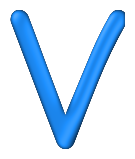
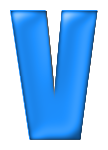
.

diff --git a/src/main/webapp/js/core.js b/src/main/webapp/js/core.js
@@ -17,7 +17,7 @@
 
     var mouseWidth = 200;
     var mouseHeight = 200;
-    var alphabetWidth = 150;
+    var alphabetWidth = 100;
     var alphabetHeight = 200;
 
     var width = 0;
@@ -84,7 +84,7 @@
                         opacity: 1
                     });
 
-                    jQuery("#mp3_" + item.html())[0].play();
+                    jQuery("#mp3_" + item.attr('letter'))[0].play();
 
                 } else {
                     item.css({
@@ -119,11 +119,16 @@
         alphabetArray = word.split('');
 
         for (var i = 0; i < alphabetArray.length; i++) {
+            var image = jQuery('<img>')
+                .attr('src', './images/' + alphabetArray[i] + '.png');
+
             var alphabet = jQuery('<div/>')
-                .html(alphabetArray[i])
+                //.html(alphabetArray[i])
+                .append(image)
                 .attr('class', 'alphabet')
                 .attr('status', 'none')
                 .attr('index', i)
+                .attr('letter', alphabetArray[i])
                 .css({
                     fontSize: alphabetHeight
                 });
